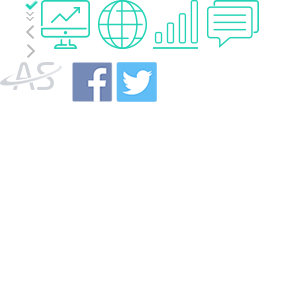
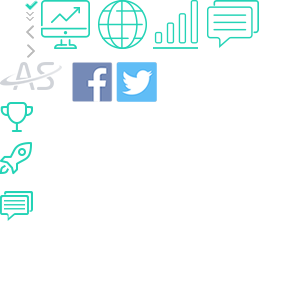
完成服务第一个页面

Changed region(s): [[0.0, 0.63, 0.12, 0.75], [0.0, 0.45, 0.12, 0.6], [0.0, 0.33, 0.12, 0.45]]

diff --git a/service rank.html b/service rank.html
@@ -1,0 +1,231 @@
+<!DOCTYPE html>
+<html lang="en">
+<head>
+    <meta charset="UTF-8">
+    <meta name="viewport" content="width=device-width,height=device-height,initial-scale=1.0, minimum-scale=1.0, maximum-scale=1.0, user-scalable=no">
+    <meta name="keywords" content="aso">
+    <meta name="description" content="">
+    <title>service rank</title>
+    <link href="css/bootstrap.min.css" type="text/css" rel="stylesheet">
+    <link href="css/main.css" type="text/css" rel="stylesheet">
+</head>
+<body>
+<div class="wrap">
+    <!-- header -->
+    <nav class="navbar navbar-default nav-border">
+        <div class="container">
+            <div class="navbar-header">
+                <a href="javascript:void(0)"><img src="images/logo.png" alt="logo"></a>
+                <button type="button" class="navbar-toggle collapsed" data-toggle="collapse" data-target="#bs-example-navbar-collapse-1" aria-expanded="false">
+                    <span class="sr-only">Toggle navigation</span>
+                    <span class="icon-bar"></span>
+                    <span class="icon-bar"></span>
+                    <span class="icon-bar"></span>
+                </button>
+            </div>
+            <div class="collapse navbar-collapse" id="bs-example-navbar-collapse-1">
+                <ul class="nav-list">
+                    <li>Home</li>
+                    <li>Charts
+                        <span class="nav-blank"></span>
+                        <ul>
+                            <li><a href="javascript:void(0)">fhfthhsth</a></li>
+                            <li><a href="javascript:void(0)">xdhtfgjhy</a></li>
+                            <li><a href="javascript:void(0)">xdcnjhgfcj</a></li>
+                            <li><a href="javascript:void(0)">xchjhyjy</a></li>
+                        </ul>
+                    </li>
+                    <li>Keywords
+                        <span class="nav-blank"></span>
+                        <ul>
+                            <li><a href="javascript:void(0)">Keywords Intelligence</a></li>
+                            <li><a href="javascript:void(0)">Keywords Expansion</a></li>
+                            <li><a href="javascript:void(0)">Search Index Query</a></li>
+                            <li><a href="javascript:void(0)">Trending Search</a></li>
+                        </ul>
+                    </li>
+                    <li>Service
+                        <span class="nav-blank"></span>
+                        <ul>
+                            <li><a href="javascript:void(0)">xfbhthhfth</a></li>
+                            <li><a href="javascript:void(0)">fghft</a></li>
+                            <li><a href="javascript:void(0)">fghthj</a></li>
+                            <li><a href="javascript:void(0)">dxfhgfjhjcfgj</a></li>
+                        </ul>
+                    </li>
+                    <div class="clear"></div>
+                </ul>
+            </div>
+            <div class="clear"></div>
+        </div>
+    </nav>
+    <div class="header">
+        <div class="nav"></div>
+    </div>
+    <!-- contents -->
+    <div class="contents">
+        <div class="tracking">
+            <div class="container">
+                <p class="tracking-top">AppStoreASO is Offering App Rank Tracking Now</p>
+                <p class="tracking-con">To Get Better Rank Performance, Use App Rank Pushing Service Now</p>
+                <div class="tracking-img">
+                    <img src="images/track-img.png" alt="tracking-img">
+                </div>
+            </div>
+        </div>
+        <div class="pushing">
+            <div class="container">
+                <div class="pushing-top">
+                    <p class="pushing-title">Top Chart App Rank Pushing</p>
+                    <span class="blue-line"></span>
+                </div>
+                <div class="pushing-con">
+                    <div class="row">
+                        <div class="col-md-3">
+                            <div class="col-img">
+                                <span class="col-bg1"></span>
+                            </div>
+                            <p class="col-tit">Free Chart Top 1-25</p>
+                            <p class="col-text">Free chart top 1-25 rank pushing is guaranteed worldwide.</p>
+                        </div>
+                        <div class="col-md-3">
+                            <div class="col-img">
+                                <span class="col-bg2"></span>
+                            </div>
+                            <p class="col-tit">Free Chart Top 1-25</p>
+                            <p class="col-text">Free chart top 1-25 rank pushing is guaranteed worldwide.</p>
+                        </div>
+                        <div class="col-md-3">
+                            <div class="col-img">
+                                <span class="col-bg3"></span>
+                            </div>
+                            <p class="col-tit">Free Chart Top 1-25</p>
+                            <p class="col-text">Free chart top 1-25 rank pushing is guaranteed worldwide.</p>
+                        </div>
+                    </div>
+                </div>
+            </div>
+        </div>
+        <div class="chooseing">
+            <div class="container">
+                <div class="pushing-top">
+                    <p class="pushing-title">Why  Choose Us?</p>
+                    <span class="blue-line"></span>
+                </div>
+                <div class="chooseing-con">
+                    <div class="row">
+                        <div class="col-md-2">
+                            <div class="chooseing-col">
+                                <div class="chooseing-img">
+                                    <img src="images/choose1.png" title="choose1">
+                                </div>
+                                <div class="chooseing-group">
+                                    <p class="chooseing-tit">Professional Support</p>
+                                    <p class="chooseing-text">We are the biggest ASO service provider with
+                                        professioal team since 2013. We devoted to
+                                        promote your app to top charts via app store
+                                        optimization.</p>
+                                </div>
+                            </div>
+                        </div>
+                        <div class="col-md-2">
+                            <div class="chooseing-col">
+                                <div class="chooseing-img">
+                                    <img src="images/choose2.png" title="choose1">
+                                </div>
+                                <div class="chooseing-group">
+                                    <p class="chooseing-tit">Service All Over the World</p>
+                                    <p class="chooseing-text">We provide ASO & App Rank Pushing service
+                                        all over the world. We can promote any app
+                                        in any country. Covering all mobile users and
+                                        languages.</p>
+                                </div>
+                            </div>
+                        </div>
+                        <div class="col-md-2">
+                            <div class="chooseing-col">
+                                <div class="chooseing-img">
+                                    <img src="images/choose3.png" title="choose1">
+                                </div>
+                                <div class="chooseing-group">
+                                    <p class="chooseing-tit">Guarantee App Rank Top</p>
+                                    <p class="chooseing-text">Guarantee your app ranking on top charts.
+                                        Guarantee your app keywords top 1, top 3, top
+                                        5 and top 10. The most effective way to acquire
+                                        high quality organic users.</p>
+                                </div>
+                            </div>
+                        </div>
+                    </div>
+                </div>
+            </div>
+        </div>
+    </div>
+    <!-- footer -->
+    <div class="footer">
+        <div class="container">
+            <div class="row foot-center">
+                <div class="col-md-4">
+                    <div class="about-aso">
+                        <span class="about-atimg"></span>
+                        <div class="about-line"></div>
+                        <p class="about-ap">
+                            <br />
+                            AppStoreaso is built around industry experts and talented,
+                            tech savvy promotional specialists. Many of our team have
+                            worked in the mobile  marketplace since.<br /><br />
+                        </p>
+                        <ul class="about-au">
+                            <li><a href="javascript:void(0)">About Us</a></li>
+                            <li><a href="javascript:void(0)">Contact Us</a></li>
+                            <li><a href="javascript:void(0)">Privacy</a></li>
+                        </ul>
+                    </div>
+                </div>
+                <div class="col-md-4">
+                    <div class="contact-aso">
+                        <span class="about-at"> Contact Us</span>
+                        <div class="about-line"></div>
+                        <p class="about-ap">
+                            <br />
+                            App Store Optimization Company will help
+                            you increase app ranking top.<br /><br />
+                        </p>
+                        <form class="contact-as" action="" method="post">
+                            <input class="inp" type="text" placeholder="Your Email">
+                            <input class="a" type="submit" value="Submit">
+                        </form>
+                    </div>
+                </div>
+                <div class="col-md-2">
+                    <div class="link">
+                        <ul class="link-u">
+                            <li>
+                                <span class="link-name">cooperation:</span>
+                                marketing@appcpi.com
+                            </li>
+                            <br />
+                            <li>
+                                <span class="link-name">Skype:</span>
+                                help@appstoreaso.com
+                            </li>
+                        </ul>
+                    </div>
+                </div>
+                <div class="col-md-2">
+                    <div class="link-img">
+                        <span class="face"></span>
+                        <span class="skype"></span>
+                        <div class="clear"></div>
+                    </div>
+                </div>
+            </div>
+        </div>
+        <p class="foot-copy">Copyright © 2017 - appstoreaso.com - APPCPI Limited - All Rights Reserved</p>
+    </div>
+</div>
+<script type="text/javascript" src="js/jquery.min.js"></script>
+<script type="text/javascript" src="js/bootstrap.min.js"></script>
+<script type="text/javascript" src="js/common.js"></script>
+</body>
+</html>

diff --git a/css/main.css b/css/main.css
@@ -2,6 +2,7 @@
 body{ list-style: none; font-size: 14px; font-family: "Segoe UI", Helvetica, sans-serif,"Open Sans",Arial; color: #666666;}
 a{ color: inherit;}
 a:hover,:active,a:focus{ text-decoration: none; color: inherit; cursor: pointer;}
+p{ margin-bottom: 0;}
 
 ul,ol{ list-style: none;}
 .wrap{ width: 100%; position: relative;}
@@ -212,6 +213,34 @@ span:focus{ outline: none;}
 .keywords-top .trand-index{ width: 20%; float: right;}
 .data-trand-key{ width: 80%; float: left; padding-left: 30px;}
 .data-trand-index{ width: 20%; padding-left: 15px;}
+
+
+/* service rank */
+.tracking{ background: #f2f2f2;}
+.tracking-top{ text-align: center; padding-top: 108px; line-height: 125px; font-size: 42px; color: #333; font-family: Open Sans;}
+.tracking-con{ text-align: center; font-size: 24px; color: #666;}
+.tracking-img{ margin: 90px 0 130px 0; text-align: center;}
+.pushing-top{ margin-top: 120px; text-align: center;}
+.pushing-title{ line-height: 90px; font-size: 48px; color: #333; text-align: center;}
+.blue-line{ width: 60px; height: 2px; background: #24d3b6; display: inline-block;}
+.pushing-con{ margin-top: 240px; margin-bottom: 360px;}
+.col-md-3{ width: 33.33%; padding: 0 64px;}
+.col-img{ width: 90px; height: 90px; line-height: 90px; text-align: center; border: 1px solid #e1e1e1; border-radius: 50%; margin: 0 auto;}
+.col-tit{ font-size: 24px; color: #333; text-align: center; margin-top: 25px;}
+.col-text{ font-size: 18px; color: #666666; text-align: center; line-height: 24px; margin-top: 15px;}
+.col-img span{ width: 33px; height: 33px; display: inline-block; vertical-align: middle;}
+.col-bg1{ background: url("../images/bg.png") no-repeat; background-position: 0 -101px;}
+.col-bg2{ background: url("../images/bg.png") no-repeat; background-position: 0 -142px;}
+.col-bg3{ background: url("../images/bg.png") no-repeat; background-position: 0 -190px;}
+.chooseing{ background: #f2f2f2;}
+.col-md-2{ width: 33.3%;}
+.chooseing-img img{ width: 100%;}
+.chooseing-con{ margin-top: 130px; margin-bottom: 175px;}
+.chooseing-col{ border-radius: 3px; background: #fff; box-shadow: 2px 2px 5px rgba(102,102,102,0.15), -2px 0 5px rgba(102,102,102,0.15), 2px 0 5px rgba(102,102,102,0.15), -2px 2px 5px rgba(102,102,102,0.15);}
+.chooseing-tit{ padding: 30px 25px 0 25px; margin: 0; text-align: center; font-size: 20px; color: #24d3b6;}
+.chooseing-text{ padding: 20px 25px 0 25px; margin: 0; font-size: 16px; color: #333; line-height: 24px;}
+.chooseing-group{ height:225px;}
+
 
 
 
